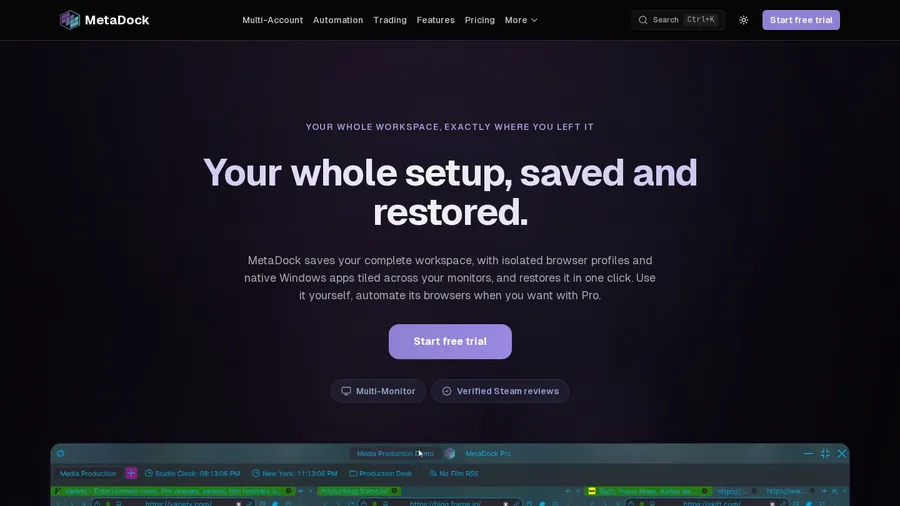
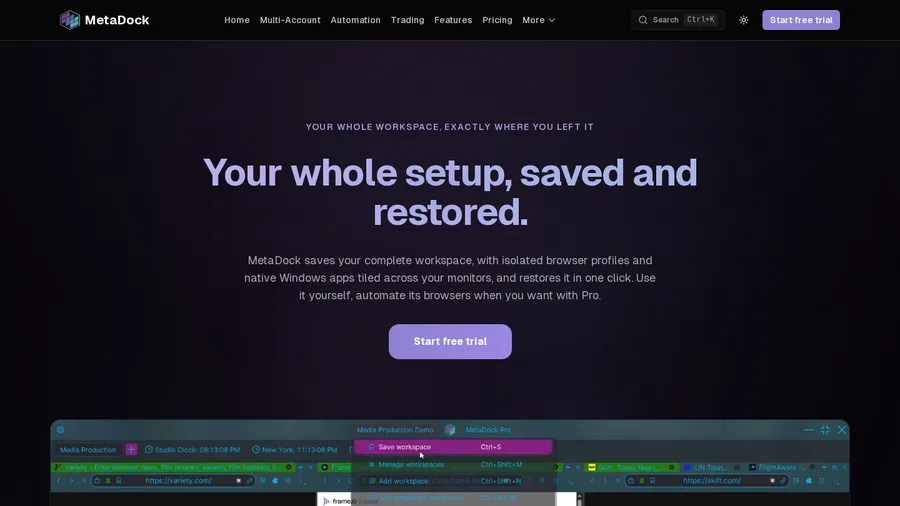
Show light captures of the projects when the site is in light mode
Every project card showed a screenshot taken with a dark colour scheme, so in
light mode the grid was a row of dark panels on a white page even for sites
that have a light look of their own.

capture:projects now shoots each site twice, in a fresh context per scheme, and
keeps the light capture only when it differs from the dark one by more than an
animation frame (normalised RMSE >= 0.04). Plenty of these sites are dark
whatever the visitor asks for, and a second copy of the same picture would cost
a download and prove nothing. It then prints which entries in projects.ts need
screenshotLight added or removed — before any failure exit, so one site being
down does not hide the edits the rest need.

Three sites have a light look today: NebulaKit, AgapeVerse and MetaDock. Their
dark captures were refreshed in the same run so each pair shows the same
version of the site; the dark-only sites' art is left as it was.

ProjectCard renders both captures and hides the one that is not the page's
theme. Not <picture media="(prefers-color-scheme)">: the theme is the reader's
toggle, stamped on <html> as data-theme before first paint, and the OS
preference can disagree with it. A lazy image that is display:none is never
fetched, so below the fold only the visible capture is downloaded.

Verified: bun run check; bun run test:coverage, 2,734 passing above the 95
floor; and /projects loaded headlessly from vite preview in each scheme — the
[…]

diff --git a/src/lib/components/ProjectCard.test.ts b/src/lib/components/ProjectCard.test.ts
@@ -1,0 +1,53 @@
+import { render } from '@testing-library/svelte';
+import { describe, expect, it } from 'vitest';
+import ProjectCard from './ProjectCard.svelte';
+import type { Project } from '$lib/data/projects';
+
+const project = (over: Partial<Project> = {}): Project => ({
+	id: 'demo',
+	name: 'Demo',
+	description: 'A project that exists for this test and nowhere else, long enough to count.',
+	url: 'https://demo.example/',
+	external: true,
+	screenshot: '/projects/demo-screenshot.webp',
+	tags: [{ label: 'Made at *Space', tone: 'made-here' }],
+	...over
+});
+
+const art = (container: HTMLElement) =>
+	[...container.querySelectorAll('.card-art img')] as HTMLImageElement[];
+
+describe('ProjectCard artwork', () => {
+	it('shows the one capture, unmarked, when there is no light version', () => {
+		const { container } = render(ProjectCard, { props: { project: project() } });
+		const images = art(container);
+		expect(images).toHaveLength(1);
+		expect(images[0].getAttribute('src')).toBe('/projects/demo-screenshot.webp');
+		// Unmarked, so neither theme rule hides it: a dark-only site shows its
+		// dark capture in light mode too, which is what that site looks like.
+		expect(images[0].className).not.toMatch(/shot-/);
+	});
+
+	it('carries both captures when the site has a light look, one per theme', () => {
+		const { container } = render(ProjectCard, {
+			props: { project: project({ screenshotLight: '/projects/demo-screenshot-light.webp' }) }
+		});
+		const images = art(container);
+		expect(images).toHaveLength(2);
+
+		const dark = images.find((img) => img.classList.contains('shot-dark'));
+		const light = images.find((img) => img.classList.contains('shot-light'));
+		expect(dark?.getAttribute('src')).toBe('/projects/demo-screenshot.webp');
+		expect(light?.getAttribute('src')).toBe('/projects/demo-screenshot-light.webp');
+	});
+
+	it('loads both eagerly on the first cards and lazily below the fold', () => {
+		const withLight = project({ screenshotLight: '/projects/demo-screenshot-light.webp' });
+		const eager = render(ProjectCard, { props: { project: withLight, eager: true } });
+		expect(art(eager.container).every((img) => img.loading === 'eager')).toBe(true);
+		eager.unmount();
+
+		const lazy = render(ProjectCard, { props: { project: withLight } });
+		expect(art(lazy.container).every((img) => img.loading === 'lazy')).toBe(true);
+	});
+});

diff --git a/src/lib/components/ProjectCard.svelte b/src/lib/components/ProjectCard.svelte
@@ -17,8 +17,15 @@
 		<!-- The screenshot is the biggest target on the card, so it goes where the
 		     title goes. Out of the tab order and the accessibility tree, because
 		     the title already says the same thing. -->
+		<!-- Two captures when the project has a light look: CSS shows the one that
+		     matches this site's theme. Not <picture media="(prefers-color-scheme)">,
+		     because the theme here is the reader's toggle, stamped on <html> as
+		     data-theme before first paint, and the OS preference can disagree
+		     with it. A lazy image that is display:none is never fetched, so below
+		     the fold only the visible one costs a download. -->
 		<a href={project.url} {target} {rel} tabindex="-1" aria-hidden="true" class="card-art">
 			<img
+				class:shot-dark={project.screenshotLight}
 				src={project.screenshot}
 				alt=""
 				loading={eager ? 'eager' : 'lazy'}
@@ -26,6 +33,17 @@
 				width="900"
 				height="506"
 			/>
+			{#if project.screenshotLight}
+				<img
+					class="shot-light"
+					src={project.screenshotLight}
+					alt=""
+					loading={eager ? 'eager' : 'lazy'}
+					decoding="async"
+					width="900"
+					height="506"
+				/>
+			{/if}
 		</a>
 	{/if}
 
@@ -109,6 +127,13 @@
 
 	.card:hover .card-art img {
 		transform: scale(1.03);
+	}
+
+	/* Each theme hides the capture that is not its own. Anything but an explicit
+	   dark theme counts as light, which is app.css's default too. */
+	:global(:root:not([data-theme='dark'])) .card-art .shot-dark,
+	:global([data-theme='dark']) .card-art .shot-light {
+		display: none;
 	}
 
 	.card-body {

diff --git a/src/lib/data/projects.ts b/src/lib/data/projects.ts
@@ -25,6 +25,12 @@ export type Project = {
 	external: boolean;
 	/** Path under `static/` for the card art, if there is any. */
 	screenshot?: string;
+	/**
+	 * The same site captured asking for a light colour scheme, shown while this
+	 * site is in light mode. Only set when the project actually has a light look;
+	 * `bun run capture:projects` says which ones do.
+	 */
+	screenshotLight?: string;
 	/** Path under `static/` for a small square mark shown beside the name. */
 	logo?: string;
 	tags: ProjectTag[];
@@ -64,6 +70,7 @@ export const projects: Project[] = [
 		url: 'https://nebulakit.starspace.group/',
 		external: true,
 		screenshot: '/projects/nebulakit-screenshot.webp',
+		screenshotLight: '/projects/nebulakit-screenshot-light.webp',
 		tags: [madeHere, stack('SvelteKit'), stack('Cloudflare Workers')]
 	},
 	{
@@ -85,6 +92,7 @@ export const projects: Project[] = [
 		external: true,
 		logo: '/projects/agapeverse-logo.webp',
 		screenshot: '/projects/agapeverse-screenshot.webp',
+		screenshotLight: '/projects/agapeverse-screenshot-light.webp',
 		tags: [
 			madeHere,
 			stack('Deno Fresh'),
@@ -133,6 +141,7 @@ export const projects: Project[] = [
 		external: true,
 		logo: '/projects/metadock-logo.webp',
 		screenshot: '/projects/metadock-screenshot.webp',
+		screenshotLight: '/projects/metadock-screenshot-light.webp',
 		tags: [stack('Windows'), stack('C++'), stack('Qt')]
 	}
 ];

diff --git a/tests/unit/site-content.test.ts b/tests/unit/site-content.test.ts
@@ -9,7 +9,7 @@ const staticFile = (path: string) => join(process.cwd(), 'static', path.replace(
  *  `static/` is otherwise invisible until someone loads the page and sees a
  *  broken card. */
 const imagePaths = projects
-	.flatMap((project) => [project.screenshot, project.logo])
+	.flatMap((project) => [project.screenshot, project.screenshotLight, project.logo])
 	.filter((path): path is string => typeof path === 'string');
 
 describe('project directory', () => {
@@ -55,6 +55,21 @@ describe('card artwork', () => {
 		for (const path of imagePaths) {
 			expect(path).toMatch(/^\//);
 			expect(existsSync(staticFile(path)), `${path} is missing from static/`).toBe(true);
+		}
+	});
+
+	// The dark capture is the one every card shows in dark mode and the fallback
+	// in light mode, so a light capture on its own would leave dark mode blank.
+	it('never gives a project a light capture without the dark one', () => {
+		for (const project of projects) {
+			if (project.screenshotLight) expect(project.screenshot, project.id).toBeTruthy();
+		}
+	});
+
+	it('names light captures the way capture:projects writes them', () => {
+		for (const project of projects) {
+			if (!project.screenshotLight) continue;
+			expect(project.screenshotLight).toBe(`/projects/${project.id}-screenshot-light.webp`);
 		}
 	});
 });

diff --git a/README.md b/README.md
@@ -71,6 +71,11 @@ bun run capture:projects              # all of them
 bun run capture:projects athena game  # just these
 ```
 
+Each site is captured twice, asking once for a dark colour scheme and once for a light one, and
+the card shows whichever matches the theme the reader has this site in. The light capture is only
+kept when it actually differs — most of these sites are dark whatever you ask — and when one is
+kept the entry needs `screenshotLight`; the script prints which entries are out of step.
+
 It only replaces the pictures. When a site has been redesigned the copy beside it is usually
 stale too, so read the page and fix the entry by hand — a card whose picture and words disagree
 is worse than an old picture.
